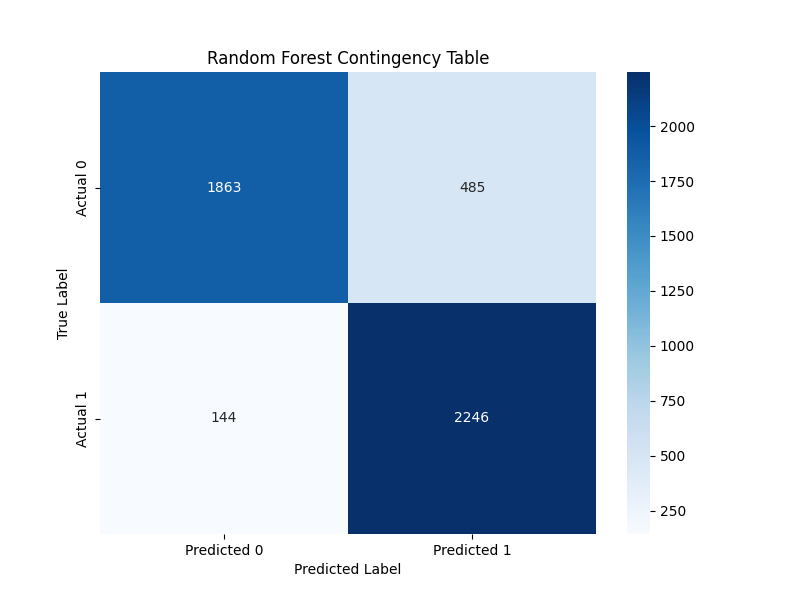
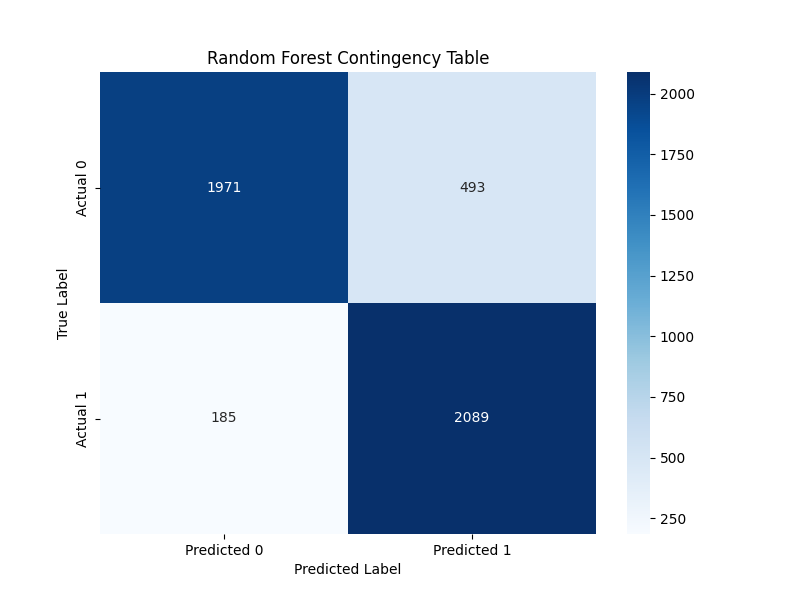
Shap plot of random forest created

diff --git a/ml/random_forest.py b/ml/random_forest.py
@@ -1,0 +1,102 @@
+import pandas as pd
+import numpy as np
+from sklearn.ensemble import RandomForestClassifier
+from sklearn.model_selection import train_test_split
+from sklearn.metrics import classification_report, accuracy_score
+from sklearn.metrics import confusion_matrix
+import matplotlib.pyplot as plt
+import seaborn as sns
+from imblearn.pipeline import Pipeline
+import random
+from sklearn.preprocessing import StandardScaler, MinMaxScaler
+from sklearn.impute import SimpleImputer
+import shap
+
+
+# Loading data:
+df = pd.read_pickle("featureTable_labeled.pkl") #160 columns/ features
+
+# Splitting data into x and y:
+X = df.drop(columns=["nct_id", "label"])
+y = df["label"]
+mask = y.notna()
+X = X[mask]
+y = y[mask].astype(int)
+
+# Dropping empty columns:
+empty_cols = X.columns[X.isna().all()]
+print("Dropping empty columns:", empty_cols.tolist())
+X = X.drop(columns=empty_cols)
+
+#splitting into train/test
+X_train, X_test, y_train, y_test = train_test_split(X, y, test_size=0.2, random_state=36)
+
+# RF pipeline
+rf_pipeline = Pipeline([
+    ('imputer', SimpleImputer(strategy='median')),
+    ('rf', RandomForestClassifier(random_state=36))
+])
+
+
+# Training
+rf_pipeline.fit(X_train, y_train)
+
+y_pred = rf_pipeline.predict(X_test)
+print(classification_report(y_test, y_pred))
+
+# confusion matrix aka 2x2 or contingency table
+cm = confusion_matrix(y_test, y_pred)
+print("Confusion Matrix:")
+print(cm)
+
+
+plt.figure(figsize=(8, 6))
+sns.heatmap(cm, annot=True, fmt="d", cmap="Blues",
+            xticklabels=['Predicted 0', 'Predicted 1'],
+            yticklabels=['Actual 0', 'Actual 1'])
+plt.xlabel('Predicted Label')
+plt.ylabel('True Label')
+plt.title('Random Forest Contingency Table')
+plt.savefig("rf_contingency_table.png")
+plt.close()
+
+
+#Training accuracy
+y_train_pred = rf_pipeline.predict(X_train)
+train_accuracy = accuracy_score(y_train, y_train_pred)
+print(f"Training Accuracy: {train_accuracy:.4f}")
+
+#Test accuracy
+
+test_accuracy = accuracy_score(y_test, y_pred)
+print(f"Test Accuracy: {test_accuracy:.4f}")
+
+# Importances
+rf_model = rf_pipeline.named_steps['rf']
+importances = rf_model.feature_importances_
+feature_names = X.columns
+feat_imp = sorted(zip(feature_names, importances), key=lambda x: x[1], reverse=True)
+for feat, imp in feat_imp[:10]:
+    print(f"{feat}: {imp:.4f}")
+
+# making shap plot- using imputed values
+X_train_imputed = rf_pipeline.named_steps['imputer'].transform(X_train)
+X_test_imputed = rf_pipeline.named_steps['imputer'].transform(X_test)
+
+X_test_sample = pd.DataFrame(X_test_imputed[:100], columns=X.columns)
+
+# SHAP explainer and values
+explainer = shap.TreeExplainer(rf_model, X_train_imputed)
+shap_values = explainer(X_test_sample)
+
+# Plot summary
+plt.figure(figsize=(8, 4))
+shap.summary_plot(shap_values[:, :, 1], X_test_sample, max_display= 20)
+plt.xticks(fontsize=8)
+plt.yticks(fontsize=10)
+plt.tight_layout()
+plt.savefig("rf_shap_1.png")
+plt.close()
+
+
+
